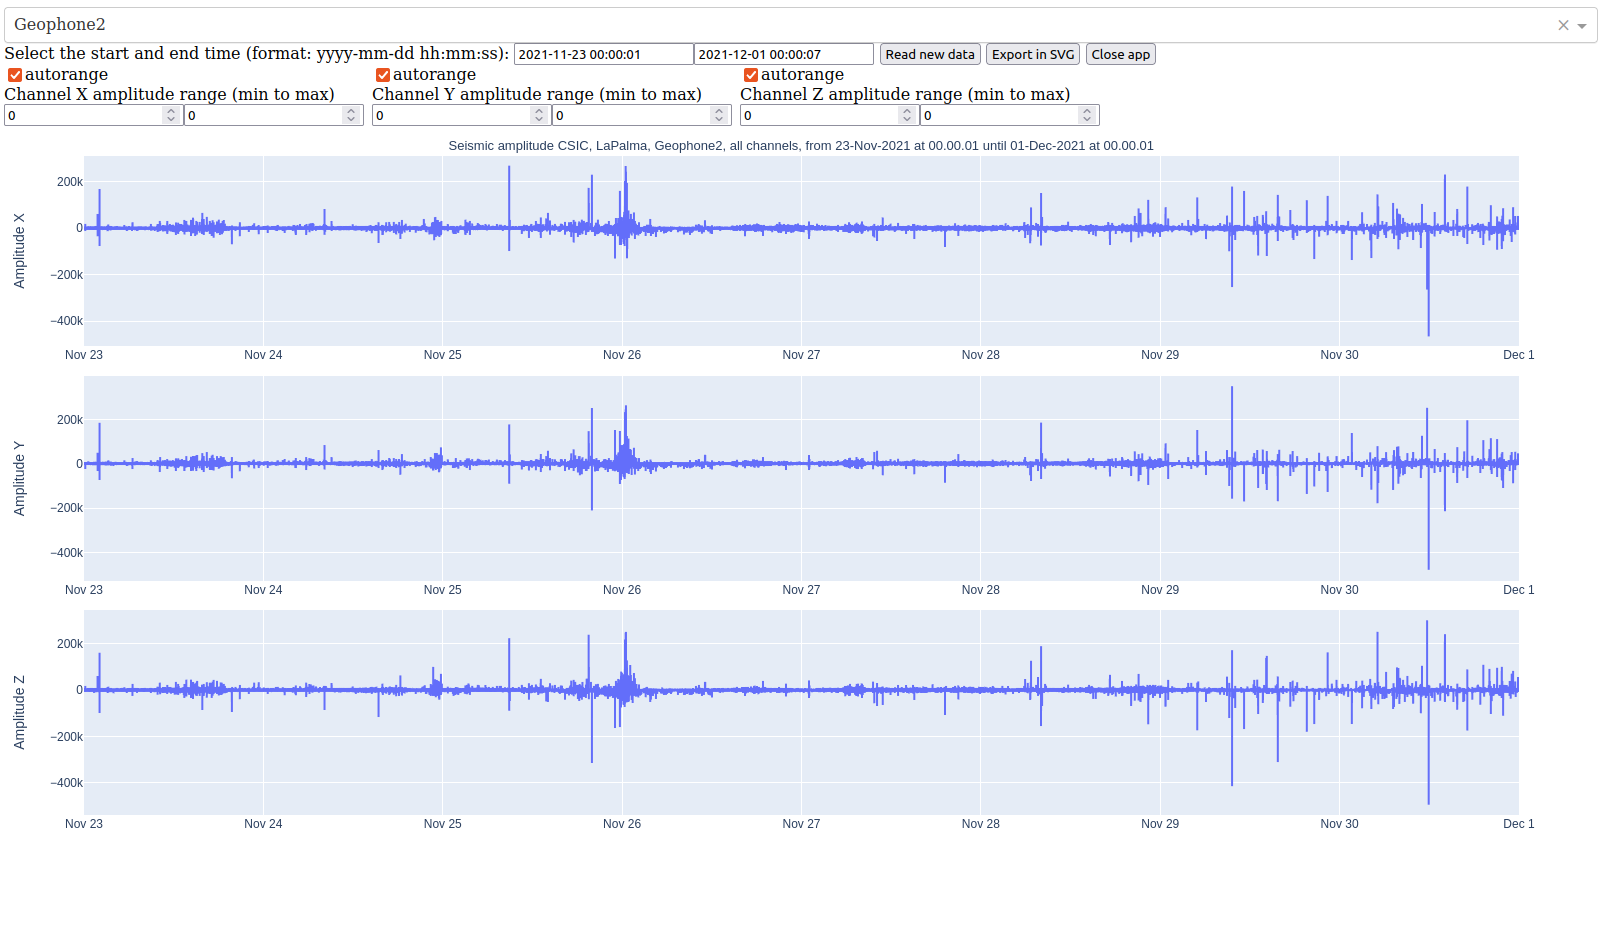
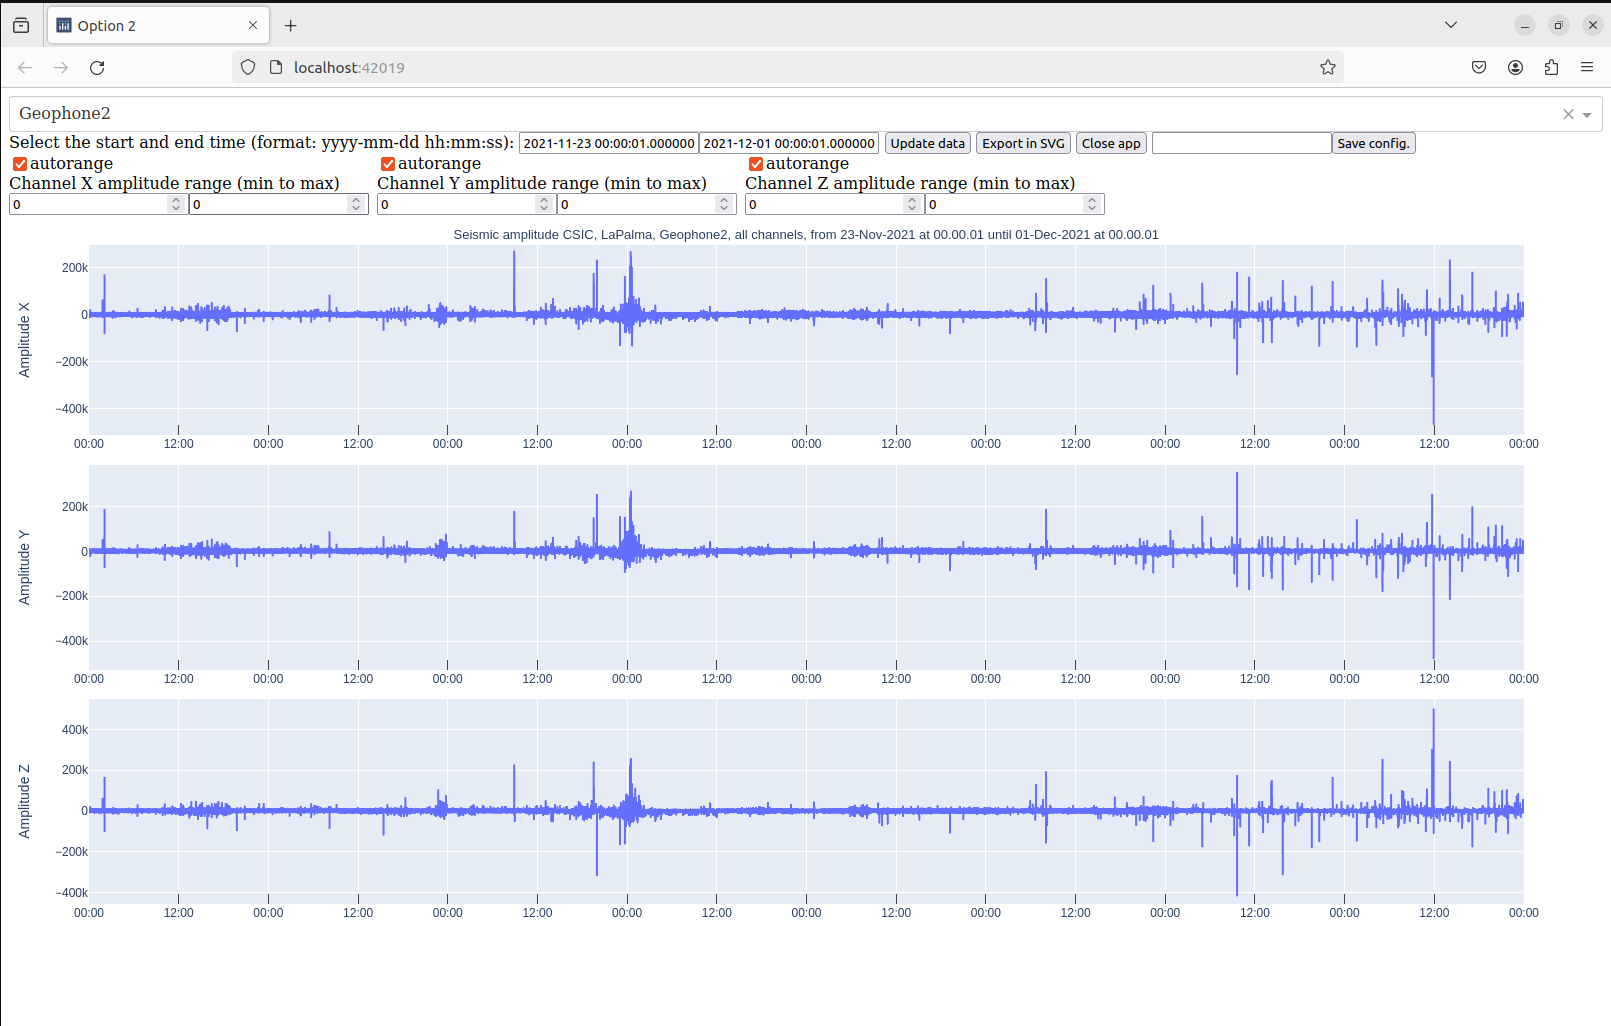
Final version

Changed region(s): [[0.0, 0.0, 1.0, 0.9024], [0.9651, 0.0933, 0.9963, 0.1245], [0.8095, 0.0622, 0.8406, 0.0933]]

diff --git a/CSIC_Seismic_Plot_3_Channels.py b/CSIC_Seismic_Plot_3_Channels.py
@@ -204,8 +204,10 @@ app.layout = html.Div([
 )
 def update_plot(geo_sel, starttime_app, endtime_app, config_name, relayoutdata_1, relayoutdata_2, relayoutdata_3, max_x, min_x, max_y,
                 min_y, max_z, min_z, auto_x, auto_y, auto_z, button, update, export_button, save, fig_1, fig_2, fig_3):
+
     global GEOPHONE
     ini_exec_time = time.time()
+
     try:
         start_time = UTCDateTime(starttime_app)
         end_time = UTCDateTime(endtime_app)
@@ -217,6 +219,7 @@ def update_plot(geo_sel, starttime_app, endtime_app, config_name, relayoutdata_1
         start_time = UTCDateTime(fig_1['data'][0]['x'][0])
         end_time = UTCDateTime(fig_1['data'][0]['x'][-1])
         print('No valid dates')
+
     if ctx.triggered_id == 'export':
         print('Saving figures...')
         if not os.path.exists("./exports"):
@@ -238,13 +241,14 @@ def update_plot(geo_sel, starttime_app, endtime_app, config_name, relayoutdata_1
         figz.write_image(file="./exports/figz.svg", format="svg", width=1920, height=1080, scale=1)
         print('Export completed.')
 
-
     elif ctx.triggered_id == 'kill_button':
         print('Closing app...')
         pyautogui.hotkey('ctrl', 'w')
         pid = os.getpid()
         os.kill(pid, signal.SIGTERM)
+
     elif ctx.triggered_id == 'save_config':
+        print('Saving configuration...')
         parameters = {'option': OPTION,
                       'start_time': start_time.strftime("%Y-%m-%dT%H:%M:%S.%f"),
                       'end_time': end_time.strftime("%Y-%m-%dT%H:%M:%S.%f"),
@@ -262,37 +266,34 @@ def update_plot(geo_sel, starttime_app, endtime_app, config_name, relayoutdata_1
                       'max_y_fig3': str(max_z),
                       'auto_y_fig3': auto_z}
         create_config(parameters, config_name)
+
     elif ctx.triggered_id == 'update' and (geo_sel != GEOPHONE or start_time != UTCDateTime(fig_1['data'][0]['x'][0]) or end_time != UTCDateTime(fig_1['data'][0]['x'][-1])):
         GEOPHONE = geo_sel
         [fig_1, fig_2, fig_3, start_time, end_time] = get_3_channel_figures(start_time, end_time, geo_sel,
                                                   filter_50Hz_f, path_root, oversampling_factor, format_in)
+
     if ctx.triggered_id in ['x_plot', 'y_plot', 'z_plot']:
         if "xaxis.range[0]" in relayoutdata_1:
             start_time = UTCDateTime(relayoutdata_1['xaxis.range[0]'])
             end_time = UTCDateTime(relayoutdata_1['xaxis.range[1]'])
             fig_2['layout']['xaxis']['autorange'] = False
             fig_2['layout']['xaxis']['range'] = [start_time, end_time]
-
             fig_3['layout']['xaxis']['autorange'] = False
             fig_3['layout']['xaxis']['range'] = [start_time, end_time]
-
 
         elif "xaxis.range[0]" in relayoutdata_2:
             start_time = UTCDateTime(relayoutdata_2['xaxis.range[0]'])
             end_time = UTCDateTime(relayoutdata_2['xaxis.range[1]'])
             fig_1['layout']['xaxis']['autorange'] = False
             fig_1['layout']['xaxis']['range'] = [start_time, end_time]
-
             fig_3['layout']['xaxis']['autorange'] = False
             fig_3['layout']['xaxis']['range'] = [start_time, end_time]
-
 
         elif "xaxis.range[0]" in relayoutdata_3:
             start_time = UTCDateTime(relayoutdata_3['xaxis.range[0]'])
             end_time = UTCDateTime(relayoutdata_3['xaxis.range[1]'])
             fig_1['layout']['xaxis']['autorange'] = False
             fig_1['layout']['xaxis']['range'] = [start_time, end_time]
-
             fig_2['layout']['xaxis']['autorange'] = False
             fig_2['layout']['xaxis']['range'] = [start_time, end_time]
 
@@ -317,11 +318,14 @@ def update_plot(geo_sel, starttime_app, endtime_app, config_name, relayoutdata_1
     if ctx.triggered_id is None:
         start_time = UTCDateTime(fig_1['data'][0]['x'][0])
         end_time = UTCDateTime(fig_1['data'][0]['x'][-1])
-    print(f'Execution took {round(time.time() - ini_exec_time, 2)} seconds...')
+
+    print(f'Updating took {round(time.time() - ini_exec_time, 2)} seconds...')
     print('UPDATE COMPLETED!')
+
     return (fig_1, fig_2, fig_3, {'autosize': True}, {'autosize': True}, {'autosize': True},
             start_time.strftime("%Y-%m-%d %H:%M:%S.%f"), end_time.strftime("%Y-%m-%d %H:%M:%S.%f"))
 
- # Run the app
+
+# Run the app
 Timer(1, open_browser, args=(port,)).start()
 app.run_server(debug=False, port=port)

diff --git a/CSIC_Seismic_Plot_Amplitude_Spectrogram.py b/CSIC_Seismic_Plot_Amplitude_Spectrogram.py
@@ -78,7 +78,6 @@ auto_y_fig1 = ['autorange'] if auto_y_fig1 == 'autorange' else []
 
 path_root = f'./data/CSIC_{location}'
 data_path = path_root + '_' + GEOPHONE + '_' + CHANNEL
-
 TR = read_and_preprocessing(data_path, format_in, STARTTIME, ENDTIME, filter_50Hz_f)
 
 STARTTIME = TR.stats.starttime
@@ -229,6 +228,7 @@ def update(geo_sel, channel_selector, starttime_app, endtime_app, config_name, r
     ini_exec_time = time.time()
     dates_error = False
     compute_graph = True if ctx.triggered_id is None else False
+
     try:
         start_time = UTCDateTime(starttime_app)
         end_time = UTCDateTime(endtime_app)
@@ -249,6 +249,7 @@ def update(geo_sel, channel_selector, starttime_app, endtime_app, config_name, r
         pid = os.getpid()
         os.kill(pid, signal.SIGTERM)
     elif ctx.triggered_id == 'save_config':
+        print('Saving configuration...')
         parameters = {'option': OPTION,
                       'start_time': start_time.strftime("%Y-%m-%dT%H:%M:%S.%f"),
                       'end_time': end_time.strftime("%Y-%m-%dT%H:%M:%S.%f"),
@@ -270,6 +271,7 @@ def update(geo_sel, channel_selector, starttime_app, endtime_app, config_name, r
                       's_max': str(s_max)}
         create_config(parameters, config_name)
     elif ctx.triggered_id == 'export':
+        print('Saving figures...')
         if not os.path.exists("./exports"):
             os.mkdir("./exports")
         fig1 = go.Figure(data=fig_1['data'], layout=fig_1['layout'])
@@ -278,7 +280,7 @@ def update(geo_sel, channel_selector, starttime_app, endtime_app, config_name, r
         fig2 = go.Figure(data=fig_2['data'], layout=fig_2['layout'])
         file_title = fig2['layout']['title']['text']
         fig2.write_image(file=f"./exports/{file_title}.svg", format="svg", width=1920, height=1080, scale=1)
-        print('Export completed.')
+        print('Export completed!')
 
     elif ctx.triggered_id == 'update':
         if channel_selector != CHANNEL or geo_sel != GEOPHONE or start_time < STARTTIME or end_time > ENDTIME: # Read new data only if a parameter is changed
@@ -343,7 +345,7 @@ def update(geo_sel, channel_selector, starttime_app, endtime_app, config_name, r
     if type(start_time) is str:  # First time is UTC, after is string
         start_time = UTCDateTime(start_time)
         end_time = UTCDateTime(end_time)
-    print(f'Execution took {round(time.time() - ini_exec_time, 2)} seconds...')
+    print(f'Updating took {round(time.time() - ini_exec_time, 2)} seconds...')
     print('UPDATE COMPLETED!')
     return (fig_1, fig_2, {'autosize': True}, {'autosize': True},
             start_time.strftime("%Y-%m-%d %H:%M:%S.%f"), end_time.strftime("%Y-%m-%d %H:%M:%S.%f"))

diff --git a/CSIC_Seismic_Plot_Amplitude_RSAM.py b/CSIC_Seismic_Plot_Amplitude_RSAM.py
@@ -77,7 +77,6 @@ auto_y_fig2 = ['autorange'] if auto_y_fig2 == 'autorange' else []
 
 path_root = f'./data/CSIC_{location}'
 data_path = path_root + '_' + GEOPHONE + '_' + CHANNEL
-print(f' Data path is: {data_path}')
 TR = read_and_preprocessing(data_path, format_in, STARTTIME, ENDTIME, filter_50Hz_f)
 
 STARTTIME = TR.stats.starttime
@@ -230,6 +229,7 @@ def update_plot(geo_sel, channel_selector, starttime_app, endtime_app, config_na
         pid = os.getpid()
         os.kill(pid, signal.SIGTERM)
     elif ctx.triggered_id == 'save_config':
+        print('Saving configuration...')
         parameters = {'option': OPTION,
                       'start_time': start_time.strftime("%Y-%m-%dT%H:%M:%S.%f"),
                       'end_time': end_time.strftime("%Y-%m-%dT%H:%M:%S.%f"),
@@ -246,6 +246,7 @@ def update_plot(geo_sel, channel_selector, starttime_app, endtime_app, config_na
                       'auto_y_fig2': auto_y_rsam}
         create_config(parameters, config_name)
     elif ctx.triggered_id == 'export':
+        print('Saving figures...')
         if not os.path.exists("./exports"):
             os.mkdir("./exports")
         fig1 = go.Figure(data=fig_1['data'], layout=fig_1['layout'])
@@ -254,7 +255,7 @@ def update_plot(geo_sel, channel_selector, starttime_app, endtime_app, config_na
         fig2 = go.Figure(data=fig_2['data'], layout=fig_2['layout'])
         file_title = fig2['layout']['title']['text']
         fig2.write_image(file=f"./exports/{file_title}.svg", format="svg", width=1920, height=1080, scale=1)
-        print('Export completed.')
+        print('Export completed!')
     elif ctx.triggered_id == 'update':
         # Read new data
         #  Read new data only if a parameter is changed
@@ -310,12 +311,13 @@ def update_plot(geo_sel, channel_selector, starttime_app, endtime_app, config_na
             start_time = fig_1['data'][0]['x'][0]
             end_time = fig_1['data'][0]['x'][-1]
 
-
     if type(start_time) is str: #First time is UTC, after is string
         start_time = UTCDateTime(start_time)
         end_time = UTCDateTime(end_time)
-    print(f'Execution took {round(time.time() - ini_exec_time, 2)} seconds...')
-    print('UPDATE COMPLETED!')
+
+    print(f'Updating took {round(time.time() - ini_exec_time, 2)} seconds...')
+    print('Update completed!')
+
     return (fig_1, fig_2, {'autosize': True}, {'autosize': True}, start_time.strftime("%Y-%m-%d %H:%M:%S.%f"),
             end_time.strftime("%Y-%m-%d %H:%M:%S.%f"))
 

diff --git a/CSIC_Seismic_Plot_RSAM_Spectrogram.py b/CSIC_Seismic_Plot_RSAM_Spectrogram.py
@@ -247,6 +247,7 @@ def update(geo_sel, channel_selector, starttime_app, endtime_app, config_name, r
         pid = os.getpid()
         os.kill(pid, signal.SIGTERM)
     elif ctx.triggered_id == 'save_config':
+        print('Saving configuration...')
         parameters = {'option': OPTION,
                       'start_time': start_time.strftime("%Y-%m-%dT%H:%M:%S.%f"),
                       'end_time': end_time.strftime("%Y-%m-%dT%H:%M:%S.%f"),
@@ -268,6 +269,7 @@ def update(geo_sel, channel_selector, starttime_app, endtime_app, config_name, r
                       's_max': str(s_max)}
         create_config(parameters, config_name)
     elif ctx.triggered_id == 'export':
+        print('Saving figures...')
         if not os.path.exists("./exports"):
             os.mkdir("./exports")
         fig1 = go.Figure(data=fig_1['data'], layout=fig_1['layout'])
@@ -276,7 +278,7 @@ def update(geo_sel, channel_selector, starttime_app, endtime_app, config_name, r
         fig2 = go.Figure(data=fig_2['data'], layout=fig_2['layout'])
         file_title = fig2['layout']['title']['text']
         fig2.write_image(file=f"./exports/{file_title}.svg", format="svg", width=1920, height=1080, scale=1)
-        print('Export completed.')
+        print('Export completed!')
 
     elif ctx.triggered_id == 'update':
         if channel_selector != CHANNEL or geo_sel != GEOPHONE or start_time < STARTTIME or end_time > ENDTIME:  # Read new data only if a parameter is changed
@@ -353,7 +355,7 @@ def update(geo_sel, channel_selector, starttime_app, endtime_app, config_name, r
     if type(start_time) is str:  # First time is UTC, after is string
         start_time = UTCDateTime(start_time)
         end_time = UTCDateTime(end_time)
-    print(f'Execution took {round(time.time() - ini_exec_time, 2)} seconds...')
+    print(f'Updating took {round(time.time() - ini_exec_time, 2)} seconds...')
     print('UPDATE COMPLETED!')
     return (fig_1, fig_2, {'autosize': True}, {'autosize': True},
             start_time.strftime("%Y-%m-%d %H:%M:%S.%f"), end_time.strftime("%Y-%m-%d %H:%M:%S.%f"))

diff --git a/CSIC_Seismic_Dash_Visualizator_UI.py b/CSIC_Seismic_Dash_Visualizator_UI.py
@@ -25,7 +25,7 @@ auto_y_fig3 = 'autorange'
 
 args = sys.argv
 if len(args) > 1:
-    file_path = f'./user_config/{args[1]}'
+    file_path = f'./user_config/{args[1]}.pickle'
     params = load_config(file_path)
     if params['option'] == 1:
         params['auto_y_fig1'] = 'autorange' if params['auto_y_fig1'] == ['autorange'] else 'no'

diff --git a/CSIC_Seismic_Visualizator_Utils.py b/CSIC_Seismic_Visualizator_Utils.py
@@ -514,6 +514,7 @@ def create_config(params, file_name):
     with open(file_path, 'wb') as file:
         # Serialize and write the variable to the file
         pickle.dump(params, file, protocol=pickle.HIGHEST_PROTOCOL)
+        print(f'Configuration is saved as: {file_name}')
 
 
 def load_config(file_path):

diff --git a/Readme.md b/Readme.md
@@ -94,6 +94,10 @@ If option 2 is selected, the program will first check the start and end time of 
 ![alt text](./screenshots/reading_3_channels.png)
 
 
+Alternatively, you can pass as a parameter of the program a saved configuration: python CSIC_Seismic_Dash_Visualizator_UI.py config_name.
+The parameter is the name of the file of the configuration saved in `./user_config`.
+![alt text](./screenshots/interface_param.png)
+
 
 # Options 1, 3 and 4
 
@@ -120,7 +124,7 @@ The frequency range selectors is meant to select the displayed frequencies, whic
 
 
 
-Additionally, it must be said that for options 1, 3 and 4 there is the possibility of zooming manually over the figure. After zooming, the program will compute a more precise representation for the selected area, and all figures will be synchronized. This may take a time, primaraly if there is a spectrogram involved. If the user wants to bring back the original representation, the 'Autoscale' button, present on every figure, must be pressed.
+Additionally, it must be said that for options 1, 3 and 4 there is the possibility of zooming manually over the figure. After zooming, the program will compute a more precise representation for the selected area, and all figures will be synchronized. This may take a time, primaraly if there is a spectrogram involved. If the user wants to bring back the original representation, the 'Reset axis' button, present on every figure, must be pressed.
 
 ![alt text](./screenshots/autoscale.png)
 
